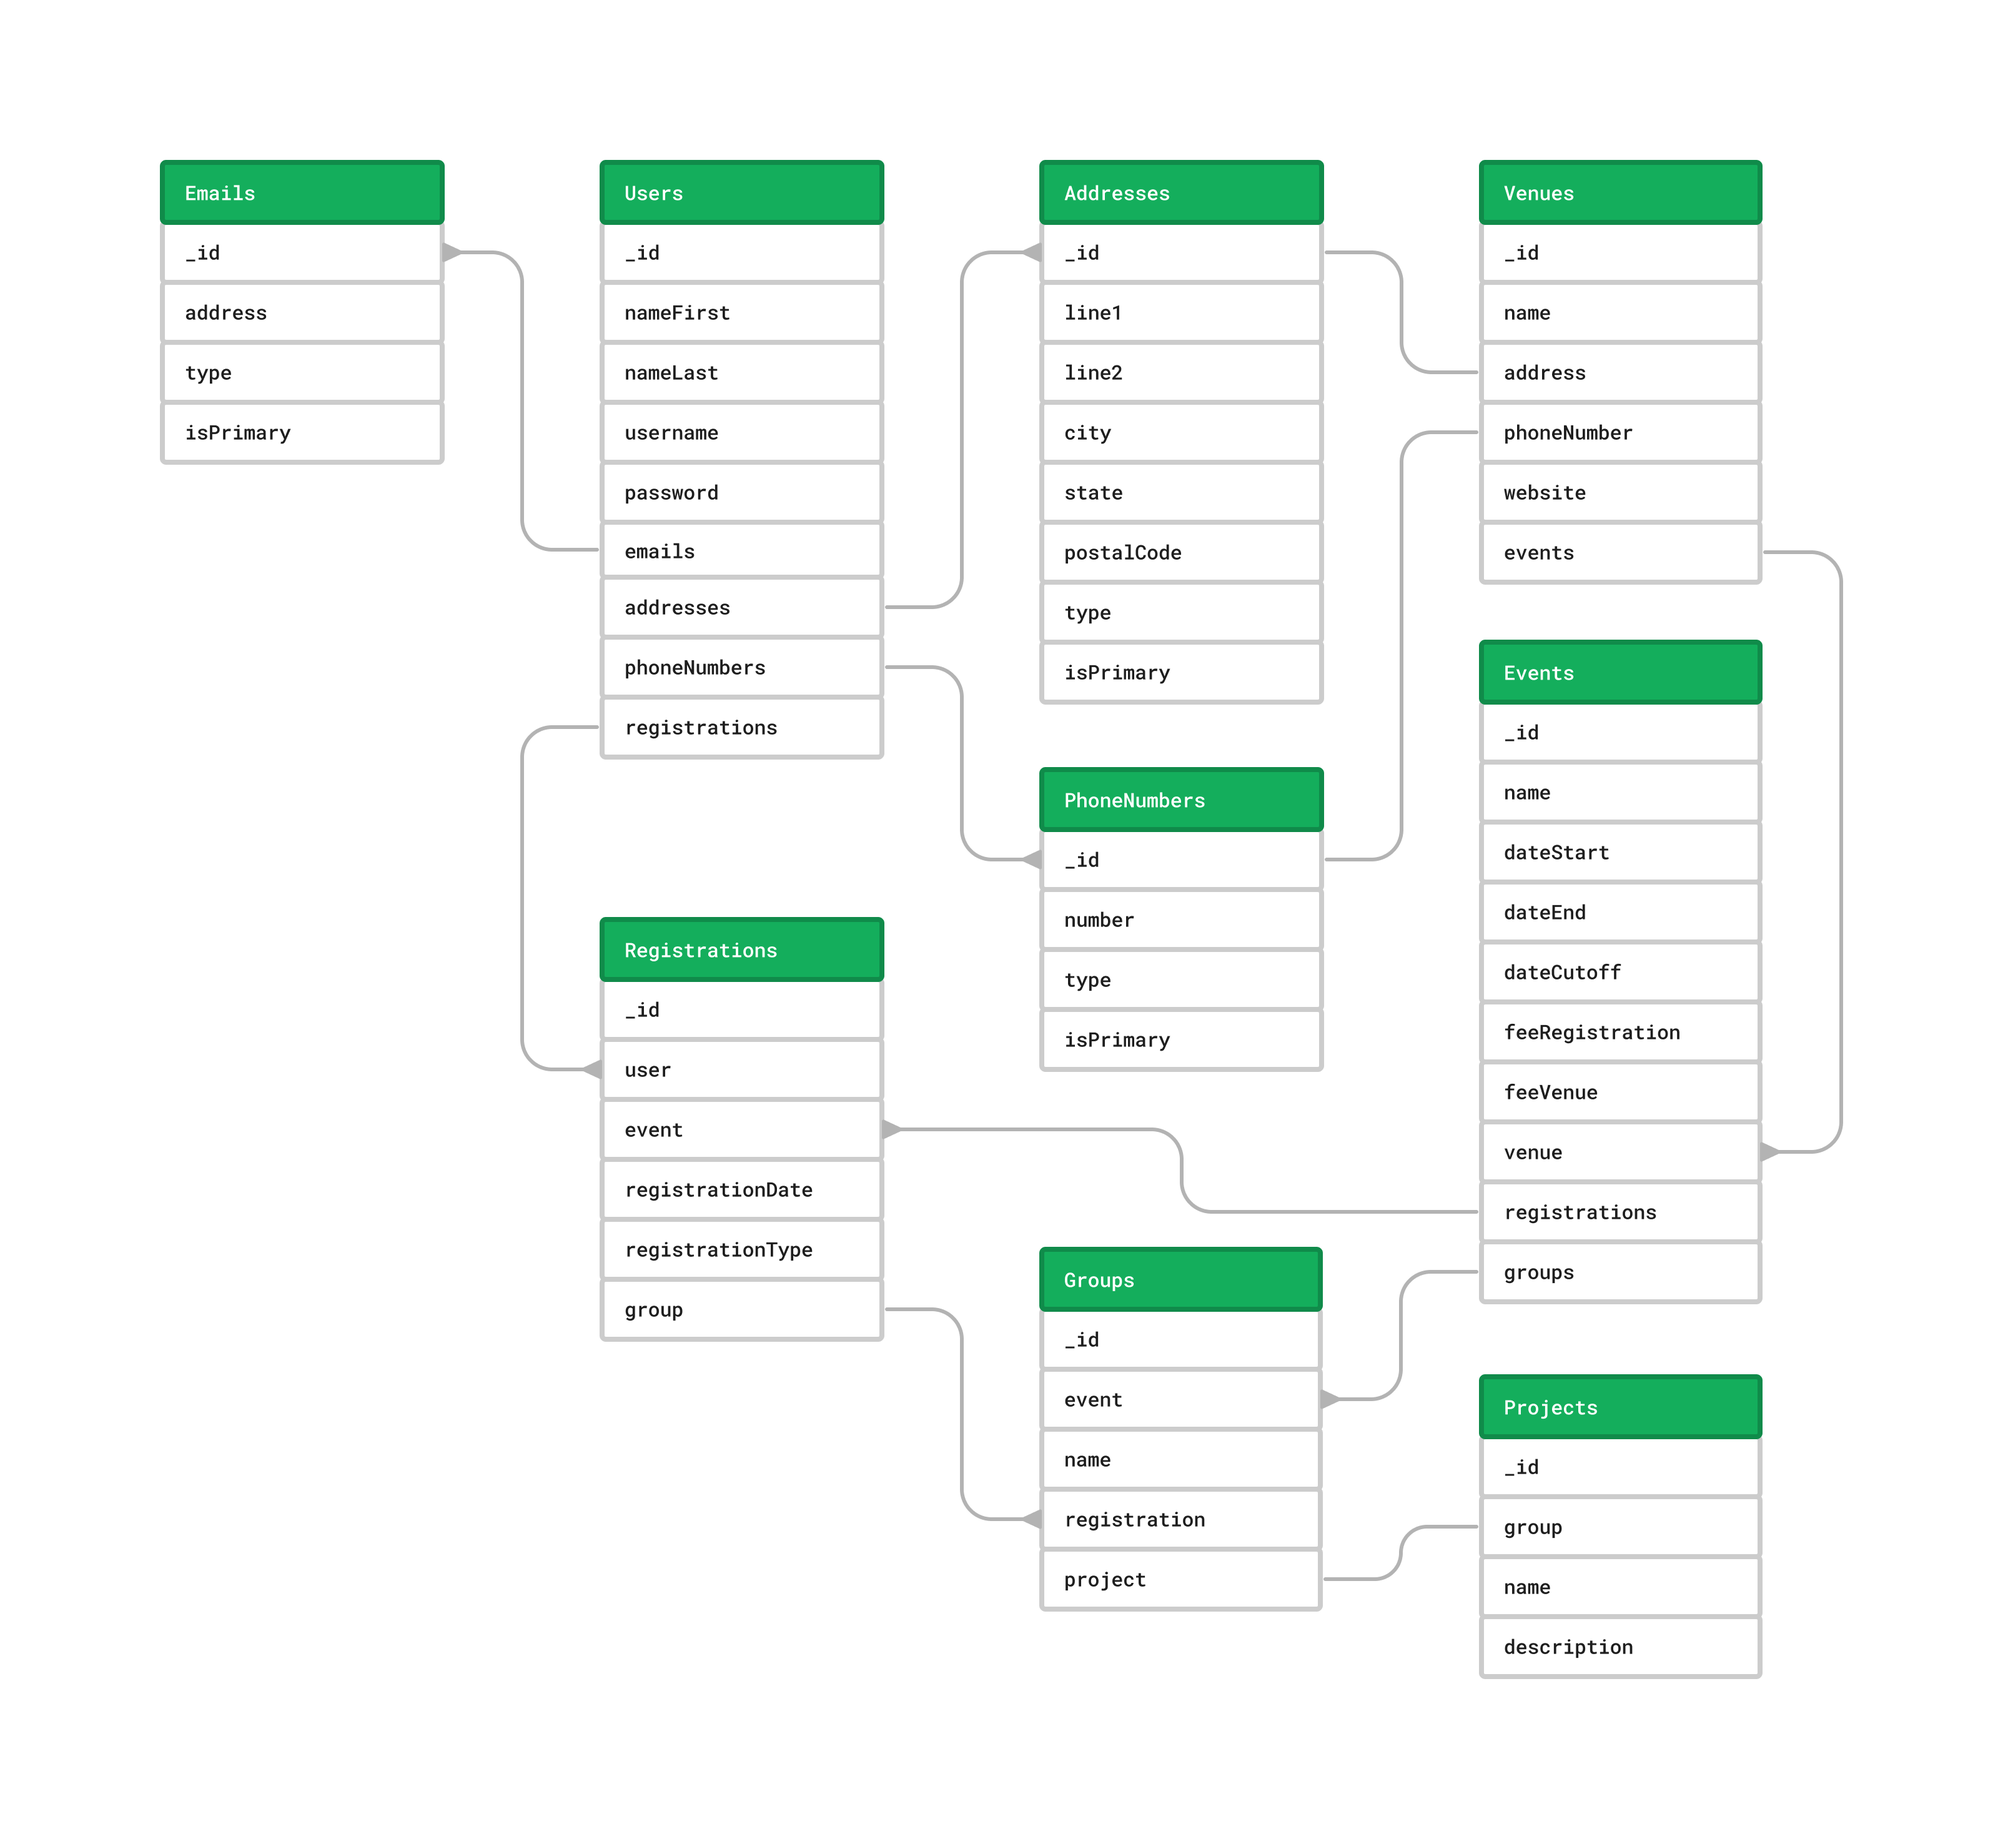
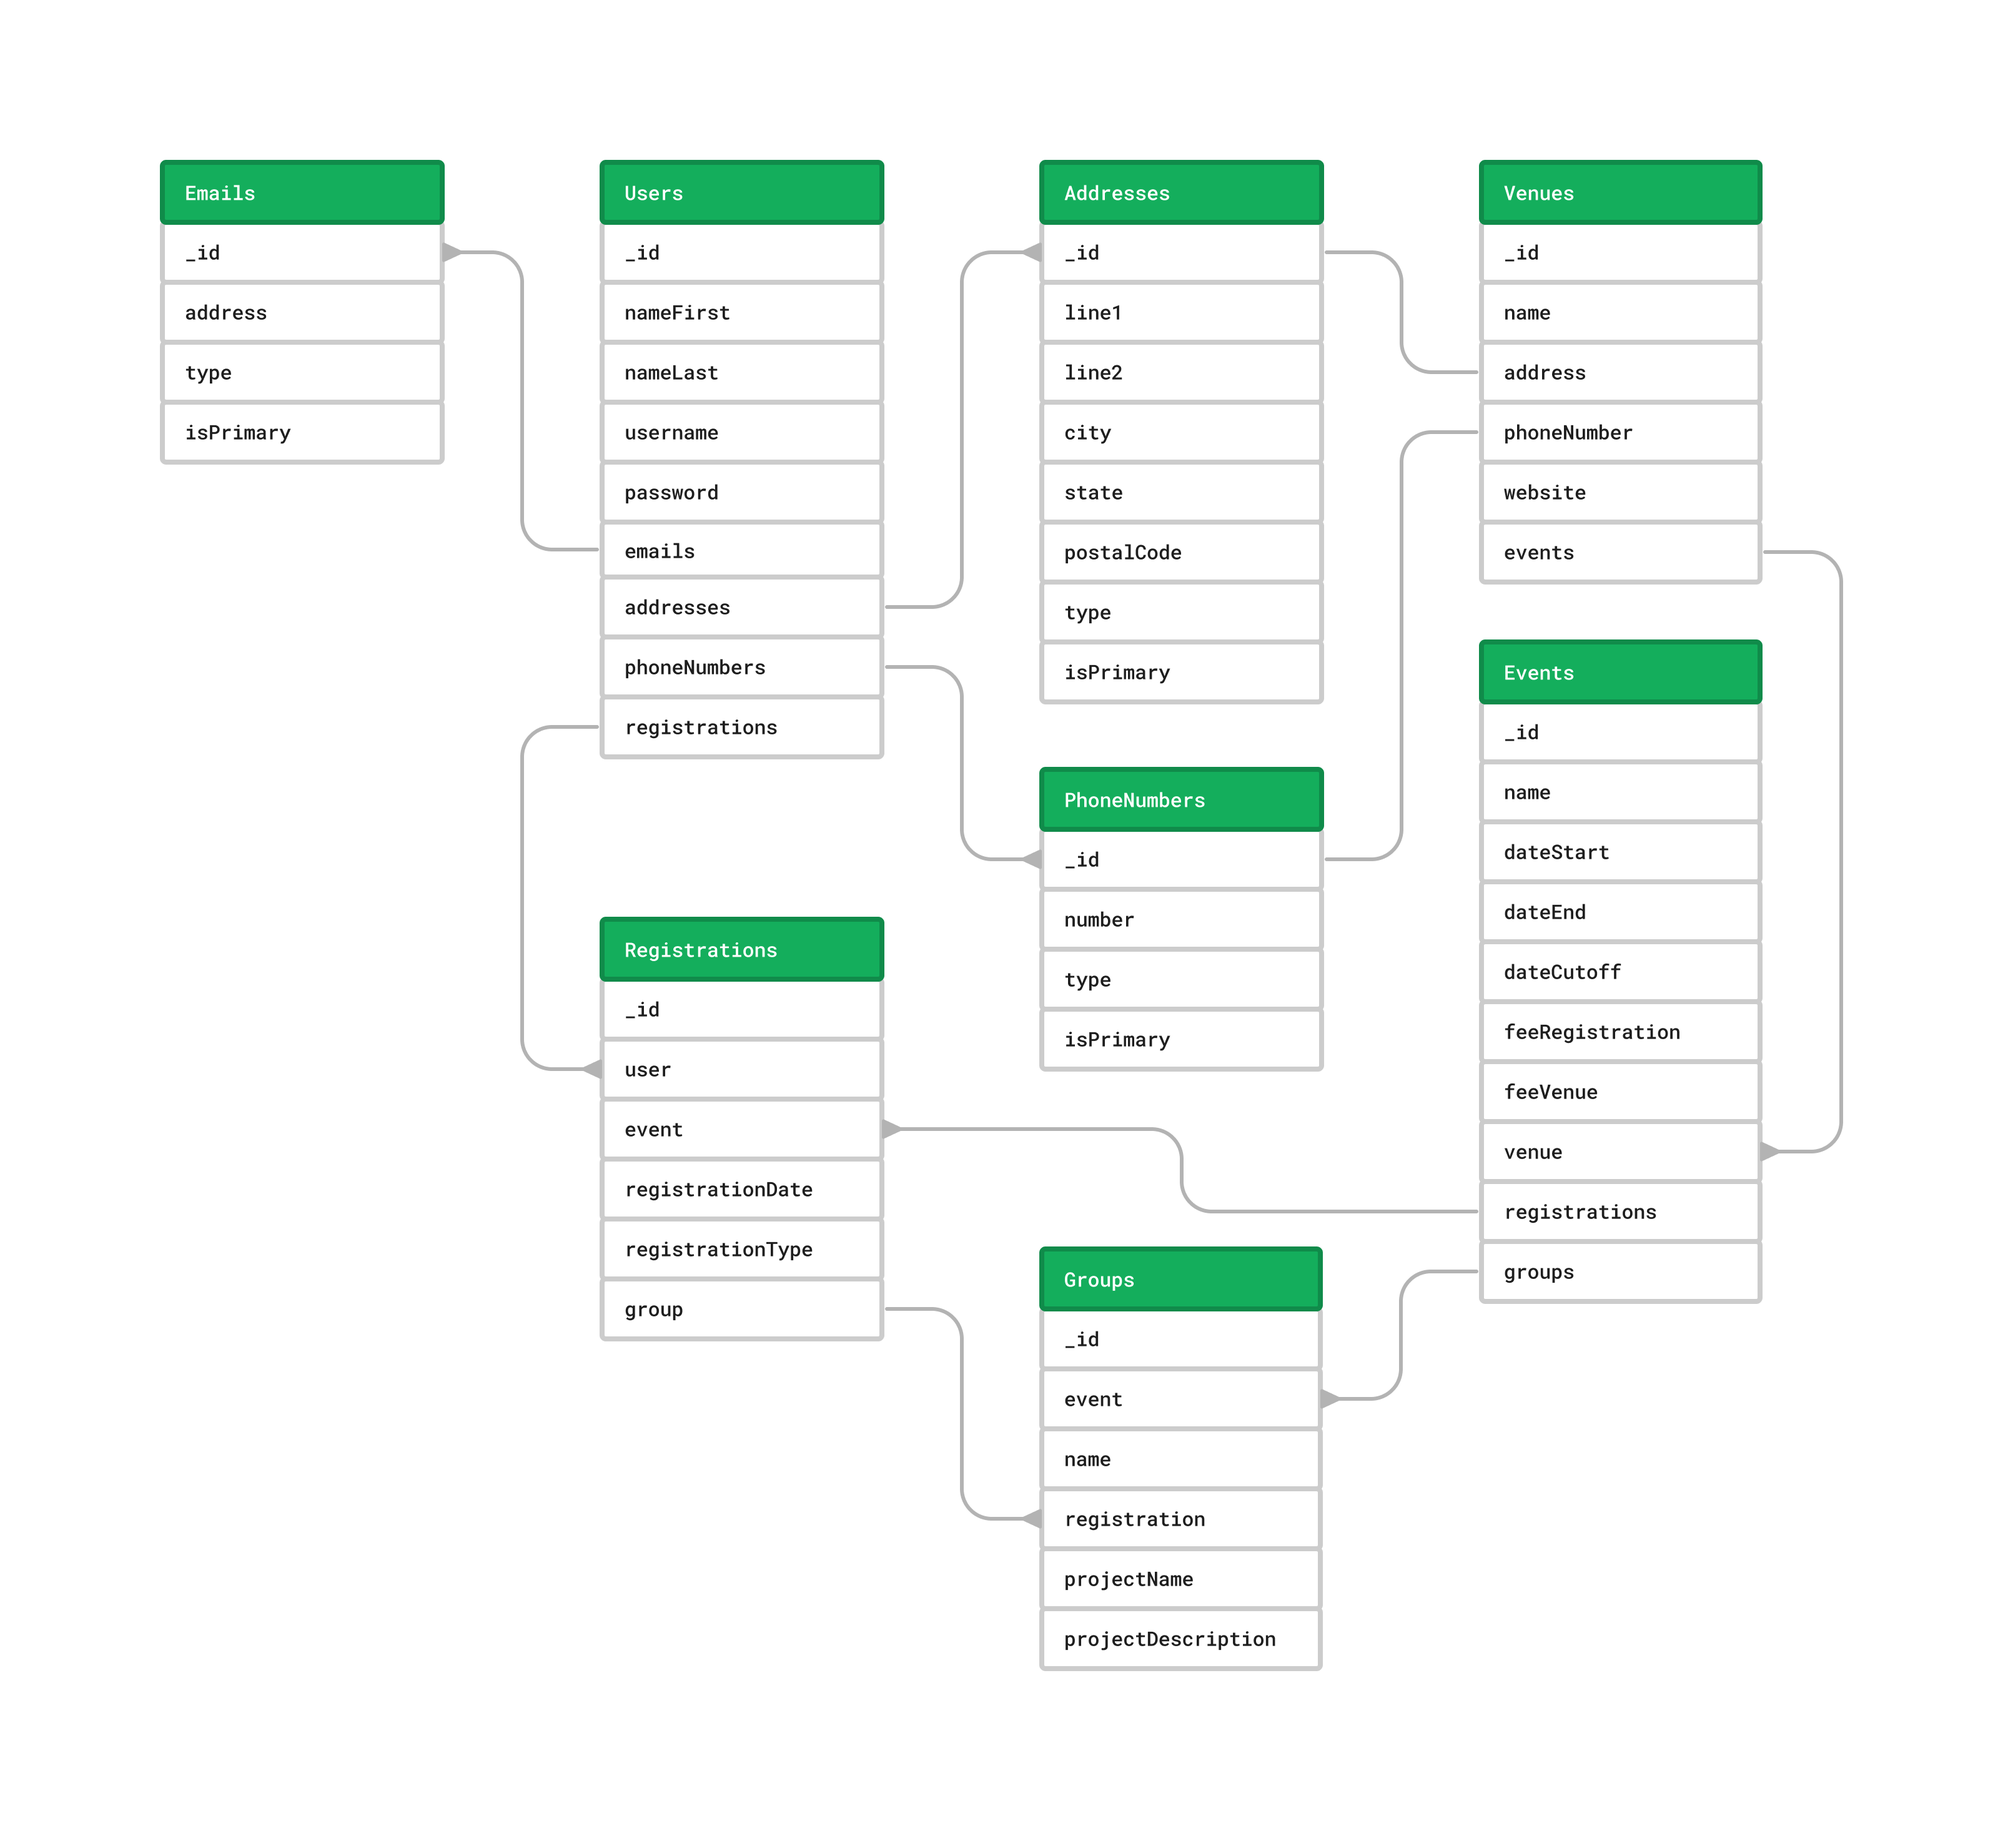
Update ERD and bump schema version to 0.0.3

diff --git a/server/models/index.ts b/server/models/index.ts
@@ -8,7 +8,7 @@ import { Event } from './Event'
 import { Group } from './Group'
 
 // Define a schema version and a schema date for future compatibility
-const schemaVersion = '0.0.2';
+const schemaVersion = '0.0.3';
 const schemaDate = dayjs('2023-09-24');
 
 // Export all models plus the schema version and schema date
